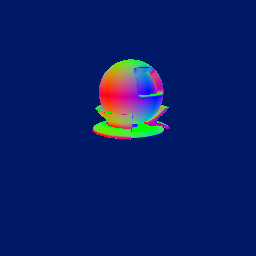
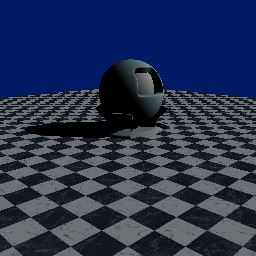
fixes

diff --git a/sources/RenderSystem/Assets/AssetRenderer.cpp b/sources/RenderSystem/Assets/AssetRenderer.cpp
@@ -107,37 +107,7 @@ public:
 
         scene->update(*graph.builder.current_frame);
 
-        // Add passes manually so RTXPass is registered before PSSM_Combine.
-        // PSSM_Combine checks builder.exists(RTXDebug) at setup time; if RTXPass
-        // has already run its setup by then, it switches from rasterised PSSM
-        // shadows to ray-traced shadows automatically.
-        graph.add_library_pass<Passes::ResultCreation>(PassDefault<Passes::ResultCreation>::setup, PassDefault<Passes::ResultCreation>::render, PassDefault<Passes::ResultCreation>::flags);
-        graph.add_library_pass<Passes::PreScene>(PassDefault<Passes::PreScene>::setup, PassDefault<Passes::PreScene>::render, PassDefault<Passes::PreScene>::flags);
-        if (pipeline.assetGBuffer.setup_func)
-            graph.add_library_pass<Passes::AssetGBuffer>(pipeline.assetGBuffer.setup_func, pipeline.assetGBuffer.render_func, pipeline.assetGBuffer.flags);
-
-        if (RenderSystem::get().device().is_rtx_supported())
-            graph.add_library_pass<Passes::RTXPass>(PassDefault<Passes::RTXPass>::setup, PassDefault<Passes::RTXPass>::render, PassDefault<Passes::RTXPass>::flags);
-
-        if (pipeline.pSSM_Global.setup_func)
-            graph.add_library_pass<Passes::PSSM_Global>(pipeline.pSSM_Global.setup_func, pipeline.pSSM_Global.render_func, pipeline.pSSM_Global.flags);
-        for (uint32_t i = 0; i < Passes::PSSM_Cascade::MaxCount; ++i)
-            if (pipeline.pSSM_Cascade.setup_funcs[i])
-                graph.add_library_pass<Passes::PSSM_Cascade>(i, pipeline.pSSM_Cascade.setup_funcs[i], pipeline.pSSM_Cascade.render_funcs[i], pipeline.pSSM_Cascade.flags);
-        if (pipeline.cubeSky.setup_func)
-            graph.add_library_pass<Passes::CubeSky>(pipeline.cubeSky.setup_func, pipeline.cubeSky.render_func, pipeline.cubeSky.flags);
-        graph.add_library_pass<Passes::CubeMapDownsample>(PassDefault<Passes::CubeMapDownsample>::setup, PassDefault<Passes::CubeMapDownsample>::render, PassDefault<Passes::CubeMapDownsample>::flags);
-        graph.add_library_pass<Passes::CubeMapEnviromentProcessor>(PassDefault<Passes::CubeMapEnviromentProcessor>::setup, PassDefault<Passes::CubeMapEnviromentProcessor>::render, PassDefault<Passes::CubeMapEnviromentProcessor>::flags);
-        if (pipeline.pSSM_GenerateMask.setup_func)
-            graph.add_library_pass<Passes::PSSM_GenerateMask>(pipeline.pSSM_GenerateMask.setup_func, pipeline.pSSM_GenerateMask.render_func, pipeline.pSSM_GenerateMask.flags);
-        if (pipeline.pSSM_Combine.setup_func)
-            graph.add_library_pass<Passes::PSSM_Combine>(pipeline.pSSM_Combine.setup_func, pipeline.pSSM_Combine.render_func, pipeline.pSSM_Combine.flags);
-        if (pipeline.sky.setup_func)
-            graph.add_library_pass<Passes::Sky>(pipeline.sky.setup_func, pipeline.sky.render_func, pipeline.sky.flags);
-        if (pipeline.sMAA.setup_func)
-            graph.add_library_pass<Passes::SMAA>(pipeline.sMAA.setup_func, pipeline.sMAA.render_func, pipeline.sMAA.flags);
-        graph.add_library_pass<Passes::FSR>(PassDefault<Passes::FSR>::setup, PassDefault<Passes::FSR>::render, PassDefault<Passes::FSR>::flags);
-
+		pipeline.add_passes(graph);
         //	pssm.generate(graph);
         //	sky.generate(graph);
         //	sky.generate_sky(graph);

diff --git a/sources/RenderSystem/Assets/MeshAsset.cpp b/sources/RenderSystem/Assets/MeshAsset.cpp
@@ -67,38 +67,31 @@ Asset_Type MeshAsset::get_type()
 void MeshAsset::init_gpu()
 {
 	FenceWaiter last;
-#undef OPAQUE
 	int i = 0;
 	if (RenderSystem::get().device().is_rtx_supported())
 		for (auto& mesh : meshes)
 		{
 			auto list = (RenderSystem::get().device().get_queue(CommandListType::DIRECT)->get_free_list());
 			list->begin(L"RTX");
-
 			auto mat = list->place_raw(nodes[mesh.node_index]->mesh_matrix);
-
 			GeometryDesc geometryDesc = {};
 			geometryDesc.Type = HAL::GeometryType::TRIANGLES;
-
 			geometryDesc.IndexBuffer = mesh.index_buffer_view.get_resource_address();
 			geometryDesc.IndexCount = static_cast<uint>(mesh.index_buffer_view.desc.size/sizeof(UINT));
 			geometryDesc.IndexFormat = Format::R32_UINT;
 			geometryDesc.Transform3x4 = mat;
 			geometryDesc.VertexFormat = Format::R32G32B32_FLOAT;
 			geometryDesc.VertexBuffer = mesh.vertex_buffer_view.get_resource_address();
+			geometryDesc.VertexCount = static_cast<uint>(mesh.vertex_buffer_view.desc.size / sizeof(Table::mesh_vertex_input));
 			geometryDesc.VertexStrideInBytes = sizeof(Table::mesh_vertex_input);
 			geometryDesc.Flags = HAL::GeometryFlags::OPAQUE;
-
 			std::vector<GeometryDesc > descs;
 			descs.push_back(geometryDesc);
-
 			mesh.ras = std::make_shared<RaytracingAccelerationStructure>(RenderSystem::get().device(), descs, list);
 			last=list->execute();
-
 			i++;
 		}
 	last.wait();
-
 }
 MeshAsset::MeshAsset(std::wstring file_name, AssetLoadingContext::ptr c)
 {
@@ -273,7 +266,6 @@ MeshAsset::MeshAsset(std::wstring file_name, AssetLoadingContext::ptr c)
 					mesh.index_count * sizeof(UINT32),
 					counterType::NONE
 				});
-
 			compiled.meshet_view = buffer->create_view<HAL::StructuredBufferView<Table::Meshlet>>(
 				RenderSystem::get().device().get_static_gpu_data(),
 				StructuredBufferViewDesc{

diff --git a/sources/HAL/HAL.Raytracing.cpp b/sources/HAL/HAL.Raytracing.cpp
@@ -66,10 +66,13 @@ HAL::RaytracingAccelerationStructure::RaytracingAccelerationStructure(Device& de
 
 	list->execute_and_wait();
 
-	handle_table = device.get_static_gpu_data().alloc_descriptor(1, DescriptorHeapIndex{ HAL::DescriptorHeapType::CBV_SRV_UAV, HAL::DescriptorHeapFlags::ShaderVisible });
+	handle_table = device.get_static_gpu_data().alloc_descriptor(2, DescriptorHeapIndex{ HAL::DescriptorHeapType::CBV_SRV_UAV, HAL::DescriptorHeapFlags::ShaderVisible });
 
-	raytracing_handle = HLSL::RaytracingAccelerationStructure(handle_table[0]);
-	raytracing_handle.create(currentResource->buffer.resource);
+	raytracing_handles[0] = HLSL::RaytracingAccelerationStructure(handle_table[0]);
+	raytracing_handles[0].create(currentResource->buffer.resource);
+	raytracing_handles[1] = HLSL::RaytracingAccelerationStructure(handle_table[1]);
+	raytracing_handles[1].create(prevResource->buffer.resource);
+	current = 0;
 
 
 	scratch_buffer = scratchInfo->buffer;
@@ -124,12 +127,19 @@ void HAL::RaytracingAccelerationStructure::update(CommandList::ptr list, UINT si
 
 	}
 	list->get_compute().build_ras(topLevelBuildDesc, inputs);
-
-
-	raytracing_handle.create(currentResource->buffer.resource);
 }
 
 HAL::ResourceAddress HAL::RaytracingAccelerationStructure::get_gpu_address() const
 {
 	return cur_buffer->get_resource_address();
+}
+
+void HAL::RaytracingAccelerationStructure::new_frame()
+{
+	current ^= 1;
+}
+
+HLSL::RaytracingAccelerationStructure HAL::RaytracingAccelerationStructure::get_handle() const
+{
+	return raytracing_handles[current];
 }

diff --git a/sources/RenderSystem/GUI/Renderer/NinePatch.cpp b/sources/RenderSystem/GUI/Renderer/NinePatch.cpp
@@ -8,7 +8,7 @@ using namespace HAL;
 namespace GUI
 {
 
-	HAL::IndexBuffer NinePatch::index_buffer;
+//	HAL::IndexBuffer NinePatch::index_buffer;
 
 	void NinePatch::reset()
 	{
@@ -19,13 +19,13 @@ namespace GUI
 		static std::mutex m;
 		static void* owner_device = nullptr;
 
-		void* cur = &RenderSystem::get().device();
-		if (owner_device == cur && index_buffer) return;  // fast path — no lock after first init
+		//void* cur = &RenderSystem::get().device();
+		//if (owner_device == cur && index_buffer) return;  // fast path — no lock after first init
 
-		std::lock_guard<std::mutex> g(m);
-		if (owner_device == cur && index_buffer) return;  // re-check under lock
+	//	std::lock_guard<std::mutex> g(m);
+		//if (owner_device == cur && index_buffer) return;  // re-check under lock
 
-		index_buffer = {};  // release buffer from old device
+	//	index_buffer = {};  // release buffer from old device
 
 		std::vector<unsigned int> index_data(9 * 2 * 3);
 		auto* data = index_data.data();
@@ -36,7 +36,7 @@ namespace GUI
 				*data++ = i*4+j+4; *data++ = i*4+j+1; *data++ = i*4+j+5;
 			}
 		index_buffer = Helpers::make_buffer<unsigned int>(RenderSystem::get().device(), index_data);
-		owner_device = cur;
+		//owner_device = cur;
 	}
 
 	void NinePatch::draw(base::Context& c, GUI::Texture& item, rect r, HAL::PipelineState::ptr pipeline_state)

diff --git a/sources/HAL/API/D3D12/HAL.D3D12.Device.cpp b/sources/HAL/API/D3D12/HAL.D3D12.Device.cpp
@@ -196,7 +196,7 @@ namespace HAL
         props.mesh_shader            = options7.MeshShaderTier >= D3D12_MESH_SHADER_TIER_1;
         props.full_bindless          = supportedShaderModel.HighestShaderModel >= D3D_SHADER_MODEL_6_6;
         props.direct_gpu_upload_heap = options16.GPUUploadHeapSupported;
-        props.work_graph             = false;//options21.WorkGraphsTier != D3D12_WORK_GRAPHS_TIER_NOT_SUPPORTED;
+        props.work_graph             = options21.WorkGraphsTier != D3D12_WORK_GRAPHS_TIER_NOT_SUPPORTED;
 
         return props;
     }
@@ -279,7 +279,7 @@ namespace HAL
             properties.full_bindless          = supportedShaderModel.HighestShaderModel >= D3D_SHADER_MODEL_6_6;
             properties.mesh_shader            = options7.MeshShaderTier >= D3D12_MESH_SHADER_TIER_1;
             properties.direct_gpu_upload_heap = options16.GPUUploadHeapSupported;
-            properties.work_graph             = false;//options21.WorkGraphsTier != D3D12_WORK_GRAPHS_TIER_NOT_SUPPORTED;
+            properties.work_graph             = options21.WorkGraphsTier != D3D12_WORK_GRAPHS_TIER_NOT_SUPPORTED;
 
             if constexpr (HAL::Debug::ValidationErrors)
             {

diff --git a/sources/RenderSystem/Mesh/AssimpLoader.cpp b/sources/RenderSystem/Mesh/AssimpLoader.cpp
@@ -624,9 +624,9 @@ std::shared_ptr<MeshData> MeshData::load_assimp(const std::string& file_name, re
                 for (unsigned int f = 0; f < native_mesh->mNumFaces; f++)
                 {
                     auto& face = native_mesh->mFaces[f];
-                    indices[index_count + f * 3] = 0*vertex_count + (face.mIndices[0]);
-                    indices[index_count + f * 3 + 1] = 0*vertex_count + (face.mIndices[1]);
-                    indices[index_count + f * 3 + 2] = 0*vertex_count + (face.mIndices[2]);
+                    indices[index_count + f * 3] = face.mIndices[0];
+                    indices[index_count + f * 3 + 1] = face.mIndices[1];
+                    indices[index_count + f * 3 + 2] = face.mIndices[2];
                 }
 
 

diff --git a/sources/RenderSystem/FrameGraph/PassDefaults.cpp b/sources/RenderSystem/FrameGraph/PassDefaults.cpp
@@ -187,7 +187,7 @@ void PassDefault<Passes::RTXPass>::render(
 	if (data.RTXDebug.is_new())
 		context.get_list()->clear_uav(data.RTXDebug->rwTexture2D, vec4(0, 0, 0, 0));
 
-	context.graph->set_slot(SlotID::VoxelInfo, compute);
+	//context.graph->set_slot(SlotID::VoxelInfo, compute);
 	context.graph->set_slot(SlotID::FrameInfo, compute);
 	context.graph->set_slot(SlotID::SceneData, compute);
 
@@ -195,7 +195,7 @@ void PassDefault<Passes::RTXPass>::render(
 
 	{
 		Slots::Raytracing rtx;
-		rtx.GetScene() = scene_ctx.scene->raytrace_scene->raytracing_handle;
+		rtx.GetScene() = scene_ctx.scene->raytrace_scene->get_handle();
 		compute.set(rtx);
 	}
 	{

diff --git a/sources/RenderSystem/Assets/Asset.cpp b/sources/RenderSystem/Assets/Asset.cpp
@@ -75,7 +75,7 @@ void AssetManager::add_func(std::function<void()> f)
 void AssetManager::add_preview(Asset::ptr asset)
 {
 //	if (!AssetRenderer::is_good()) return; // no preview renderer on Vulkan
-  return;
+ 
 	preview_executor.enqueue([this, asset]() {
 		try {
 			auto& preview = asset->holder->get_preview();
@@ -488,6 +488,7 @@ const HAL::Texture::ptr& AssetStorage::get_preview()
 
 void AssetStorage::update_preview()
 {
+	if (Application::test_mode) return;
 	AssetManager::get().add_preview(get_asset());
 
 	//.add_func([this]() { get_asset()->update_preview(preview);});

diff --git a/sources/HAL/API/D3D12/HAL.Utils.cpp b/sources/HAL/API/D3D12/HAL.Utils.cpp
@@ -862,6 +862,7 @@ RaytracingDescNative to_native(const RaytracingBuildDescBottomInputs& inputs)
         geom.Triangles.IndexFormat = ::to_native(i.IndexFormat);
         geom.Triangles.VertexBuffer.StartAddress = ::to_native(i.VertexBuffer);
         geom.Triangles.VertexBuffer.StrideInBytes = i.VertexStrideInBytes;
+        geom.Triangles.VertexCount = i.VertexCount;
         geom.Triangles.VertexFormat = ::to_native(i.VertexFormat);
         geom.Triangles.Transform3x4 = ::to_native(i.Transform3x4);
         result.descs.emplace_back(geom);

diff --git a/sources/RenderSystem/Scene/PreSceneSystem.cpp b/sources/RenderSystem/Scene/PreSceneSystem.cpp
@@ -14,6 +14,13 @@ bool PassDefault<Passes::PreScene>::setup(
     Passes::PreScene::Context& data, FrameGraph::TaskBuilder& builder)
 {
     builder.create(data.scene, { 1 }, ResourceFlags::UnorderedAccess);
+
+    if (RenderSystem::get().device().is_rtx_supported())
+    {
+        auto& scene = *builder.graph->get_context<SceneInfo>().scene;
+        scene.raytrace_scene->new_frame();
+    }
+
     return true;
 }
 

diff --git a/sources/RenderSystem/RenderSystem.cpp b/sources/RenderSystem/RenderSystem.cpp
@@ -15,7 +15,7 @@ std::shared_ptr<HAL::Device> RenderSystem::select_adapter()
 
         const auto props = HAL::Device::probe(adapter);
 
-         //if (std::wstring(desc.Description).find(L"AMD") == std::wstring::npos) return;
+       //  if (std::wstring(desc.Description).find(L"AMD") == std::wstring::npos) return;
 
 
         if (!result && props.mesh_shader && props.full_bindless &&

diff --git a/sources/Spectrum/main.cpp b/sources/Spectrum/main.cpp
@@ -555,7 +555,8 @@ public:
 				if (graph_upload)    graph_upload->push((float)dev.get_upload_heap(), frame_dt);
 				if (graph_readback)  graph_readback->push((float)dev.get_readback_heap(), frame_dt);
 			}
-
+			RTX::get().update();
+		
 
 			setup_graph();
 
